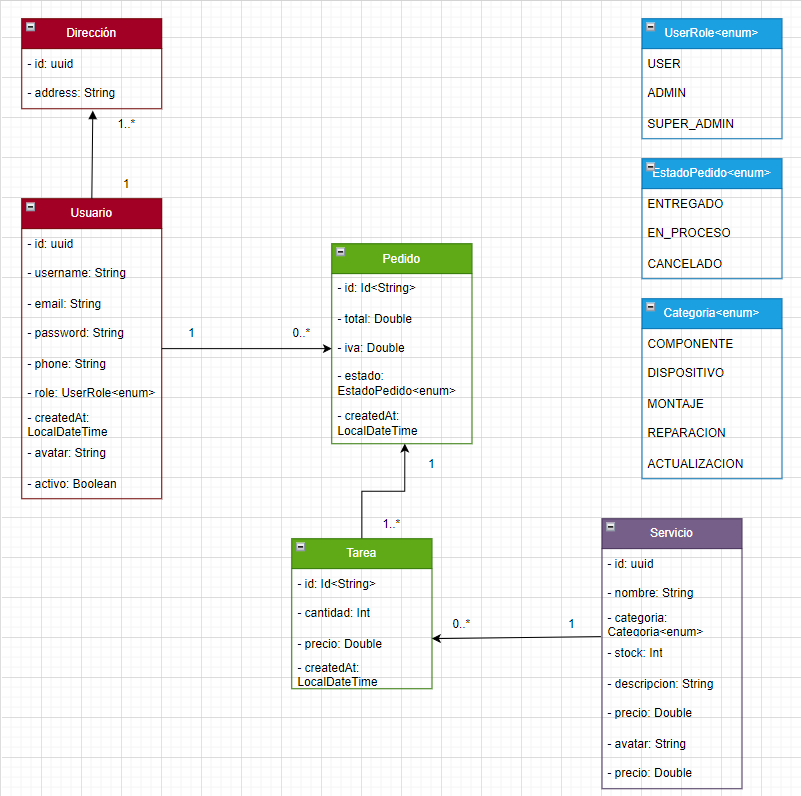
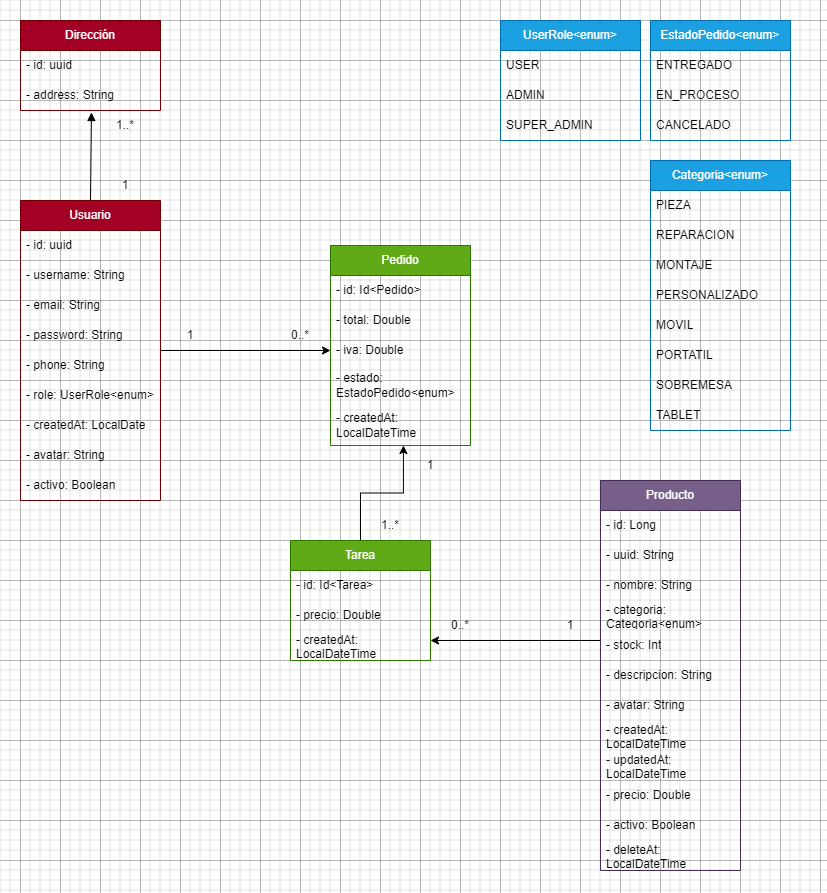
Eliminacion de docker-compose de productos/usuarios individuales // Version actualizada del diagrama de clases // Pequeños retoques en dos readme.

diff --git a/pedidos-api/README.md b/pedidos-api/README.md
@@ -11,8 +11,8 @@
 | JWT_SECRET              | pedidos                                | Contraseña para cifrar el token         |
 | MONGO_CONNECTION_STRING | mongodb://root:example@localhost:27017 | Cadena de conexion a mongo              |
 | MONGO_DATABASE          | pedidos                                | Nombre de la base de datos              |
-| USUARIOS_URL            | http://localhost:8081                  | Url para el microservicio de usuarios   |
-| PRODUCTOS_URL           | http://localhost:8082                  | Url para el microservicio de productos  |
+| USUARIOS_URL            | https://localhost:6969                 | Url para el microservicio de usuarios   |
+| PRODUCTOS_URL           | https://localhost:6963                 | Url para el microservicio de productos  |
 
 ## Pedidos
 
@@ -43,13 +43,11 @@ services:
       - KEY_ALIAS=SuperTechnology
       - KEYSTORE_PASSWORD=1A2B3C4O
       - PRIVATE_KEY_PASSWORD=1A2B3C4O
-      - JWT_ISSUER=pedidos
-      - JWT_AUDIENCE=pedidos
-      - JWT_SECRET=pedidos
+      - JWT_SECRET=Zanahoria_Turbopropulsada9
       - MONGO_CONNECTION_STRING=mongodb://root:example@mongo:27017
       - MONGO_DATABASE=pedidos
-      - USUARIOS_URL=http://usuarios:8081
-      - PRODUCTOS_URL=http://productos:8082
+      - USUARIOS_URL=https://usuarios:6969
+      - PRODUCTOS_URL=https://productos:6963
     depends_on:
       - mongo
       - usuarios

diff --git a/README.md b/README.md
@@ -46,7 +46,7 @@ Las tareas, por su parte, tendrán un id, producto, empleado que las creó, prec
 Un pedido está compuesto de múltiples tareas, pero una tarea solo pertenece a un pedido, y un pedido no puede existir sin 
 tener una tarea asociada.
 
-El microservicio de productos y servicios contrará con la entidad producto, que tendrá un id, uuid, 
+El microservicio de productos y servicios contará con la entidad producto, que tendrá un id, uuid, 
 nombre del producto o servicio, categoria, stock, una descripción, fecha de generación, de actualización y de borrado, 
 y también contará con un precio y si está activo o no. La fecha de borrado simboliza cuando se ha desactivado por ultima vez 
 el producto, ya que la actividad del mismo actúa a modo de "borrado lógico".
